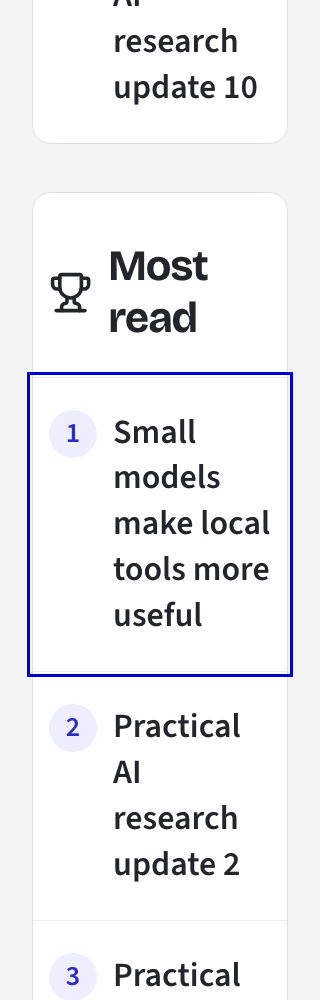
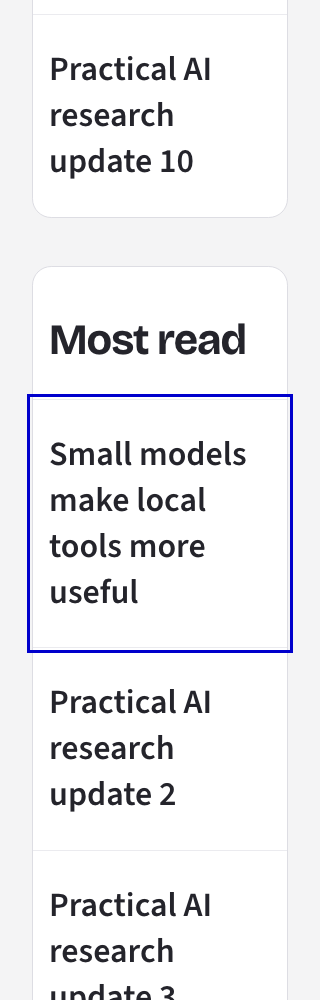
Simplify widget headings and remove number badges

Changed region(s): [[0.0625, 0.248, 0.9375, 1.0], [0.1562, 0.0, 0.8125, 0.186]]

diff --git a/hacksnap/web/app/popular-stories.tsx b/hacksnap/web/app/popular-stories.tsx
@@ -1,4 +1,3 @@
-import { Flame, Trophy } from "lucide-react";
 import type { PopularPeriod } from "../lib/popular-stories";
 import { getPopularStories } from "../lib/data";
 import { BrowseStoryLink } from "./story-navigation";
@@ -11,14 +10,10 @@ function PopularStoriesShell({
   period: PopularPeriod;
 }) {
   const heading = period === "last-7-days" ? "trending-stories-heading" : "popular-stories-heading";
-  const Icon = period === "last-7-days" ? Flame : Trophy;
   return (
     <aside className="popular-stories" aria-labelledby={heading}>
       <div className="popular-stories-heading">
-        <h2 id={heading}>
-          <Icon aria-hidden="true" />
-          {period === "last-7-days" ? "Trending" : "Most read"}
-        </h2>
+        <h2 id={heading}>{period === "last-7-days" ? "Trending" : "Most read"}</h2>
       </div>
       {children}
     </aside>
@@ -50,13 +45,10 @@ export async function PopularStories({ period = "all-time" }: { period?: Popular
       <PopularStoriesShell period={period}>
         {stories.length ? (
           <ol role="list">
-            {stories.slice(0, 5).map((story, index) => (
+            {stories.slice(0, 5).map((story) => (
               <li key={story.hn_id}>
                 <BrowseStoryLink id={story.hn_id} slug={story.story_slug} focusFeedStory={false}>
-                  <span className="popular-stories-rank" aria-hidden="true">
-                    {index + 1}
-                  </span>
-                  <span>{story.title}</span>
+                  {story.title}
                 </BrowseStoryLink>
               </li>
             ))}

diff --git a/hacksnap/web/app/globals.css b/hacksnap/web/app/globals.css
@@ -590,16 +590,8 @@ body:has(#browse-content) .skip-browse {
   border-bottom: 1px solid #ebebef;
 }
 .popular-stories-heading h2 {
-  display: flex;
-  align-items: center;
-  gap: var(--space-2);
   font: 700 1.35rem/1.2 var(--heading);
   letter-spacing: -0.025em;
-}
-.popular-stories-heading svg {
-  width: 1em;
-  height: 1em;
-  flex: none;
 }
 .popular-stories ol {
   list-style: none;
@@ -610,29 +602,11 @@ body:has(#browse-content) .skip-browse {
   border-top: 1px solid #ebebef;
 }
 .popular-stories li a {
-  display: flex;
-  align-items: flex-start;
-  gap: var(--space-2);
+  display: block;
   padding: var(--space-4);
   min-height: var(--touch-target);
   font: 600 var(--text-base)/1.35 var(--sans);
   text-decoration: none;
-}
-.popular-stories-rank {
-  display: inline-flex;
-  align-items: center;
-  justify-content: center;
-  flex: none;
-  width: 1.5rem;
-  height: 1.5rem;
-  border-radius: 50%;
-  background: var(--accent-soft);
-  color: color-mix(in srgb, var(--accent) 55%, var(--muted));
-  font-size: var(--text-sm);
-  font-variant-numeric: tabular-nums;
-}
-.popular-stories li a > span:last-child {
-  min-width: 0;
   overflow-wrap: anywhere;
 }
 .popular-stories li a:hover {

diff --git a/anti-slop/audit-001-2026-10-09-follow-up.md b/anti-slop/audit-001-2026-10-09-follow-up.md
@@ -1,15 +1,15 @@
-# Widget gutter: finding 1 resolved
+# Widget gutters and plain headings: approved changes resolved
 
-The user approved finding 1 from the 9 October spacing audit. This follow-up covers only Trending and Most read spacing.
+The user approved the 9 October spacing finding and subsequently requested removal of both number badges and heading icons. This report covers that final scope for Trending and Most read.
 
 ## Change and purpose
 
 - Headers, story rows, status messages and loading placeholders use a 1rem horizontal inset instead of 1.5rem.
-- Rank-to-title gap is 0.5rem instead of 0.75rem. The 1.5rem rank badge and vertical spacing remain unchanged.
+- Heading icons and numbered badges are removed. Headers and story titles share the same left edge. Ordered-list semantics and ranking order remain intact.
 - At content widths of 17rem or less, the existing 0.5rem compact inset also applies to status messages and loading placeholders.
-- At a normal 16px root size in a 288px card, headline capacity increases from 202px to 222px. The headline starts 48px from the inner edge instead of 60px.
+- At a normal 16px root size in a 288px card, headline capacity increases from 202px to 254px. The headline starts 16px from the inner edge instead of 60px.
 
-Reason: recover reading width within narrow ranking cards while preserving rank recognition, balanced card edges and separation from the feed.
+Reason: recover reading width within narrow ranking cards and align headings with their content, while preserving balanced card edges and separation from the feed.
 
 Direction: retain the existing editorial cards, Bricolage headings, Source Sans UI, pale canvas and blue accents. ENERGY 2 / RHYTHM 1 / MOTION 1. No new assets or content.
 
@@ -21,9 +21,9 @@ Direction: retain the existing editorial cards, Bricolage headings, Source Sans 
 - Existing popularity browser suite: 15 tests passed. Widths 320, 393, 768, 820 and 1440, each at 100% and 200% text; no horizontal overflow, targets at least 44px high, focus checks and zero axe WCAG A/AA violations.
 - Loading, empty, weekly failure and full failure scenarios passed. Feed stays available; slow loading remains below the layout-shift threshold.
 - JavaScript-disabled Most read navigation and keyboard activation passed. Browser suite reports no browser console/hydration errors. The fixture server logged two expected image-optimizer failures for its deliberately non-live image URL in the JavaScript-disabled scenario; these did not fail the suite.
-- Live local DOM inspection confirmed 16px row padding and 8px gap in both widgets. The long Most read fixture title occupies the full 222px available width.
+- Final screenshots confirm plain headings, badge-free story rows and aligned left edges. Source inspection confirms 16px horizontal padding and 254px available headline width in a 288px card.
 
-Manual widget navigation record, using the local fixture application:
+Manual widget navigation record from the initial spacing verification, using the local fixture application. Numbered positions below identify list entries; badges have since been removed. The final browser suite reran keyboard and JavaScript-disabled navigation after the removals.
 
 | Widget control | Action | Verified destination |
 | --- | --- | --- |
@@ -43,11 +43,11 @@ The final link was activated by keyboard after the browser automation could not 
 ## Delivery gate for the approved change
 
 - Hard gates PASS: no new prose, assets, claims or controls; existing links activate; browser matrix covers overflow, target size, focus, contrast and data states. Fixed light appearance is the only shipped theme. CSS was edited directly and the app was built and run.
-- Purpose gates PASS: only spacing changes; the reading-width rationale is recorded above. Colors, icons, typography, cards and motion retain the established design.
+- Purpose gates PASS: tighter insets and removal of optional icons/badges serve the recorded reading-width and alignment rationale. Colors, typography, cards and motion retain the established design.
 - Liveliness PASS: declared ENERGY 2 / RHYTHM 1 / MOTION 1 retained; the feed remains primary, ranked widgets remain secondary, blue accents and heading treatment remain consistent. Whitespace separates content while leaving more room for headlines.
 - Craftsmanship and quality PASS: same shared component and tokens serve both widgets; loading and status insets follow the rows; responsive and enlarged-text checks pass. No new sections, fabricated content or interaction behavior.
 
-This gate is scoped to the approved spacing adjustment, not a claim of a new whole-site audit.
+This gate is scoped to the approved widget simplification, not a claim of a new whole-site audit.
 
 ## Screenshots
 

diff --git a/hacksnap/web/README.md b/hacksnap/web/README.md
@@ -185,11 +185,11 @@ remains usable. Both cards render their respective results, with
 ordinary canonical article links that work without JavaScript. Full document
 requests await the optional popularity read after required feed data; client
 navigation streams its loading, empty, and unavailable states independently.
-“Trending” uses a flame icon and “Most read” uses a trophy icon. Both lists show
-numbered rank pills in muted accent blue. “Most read” ranks lifetime reads.
-Widget headings, rows and fallback states share a 1rem horizontal inset, with
-0.5rem between each rank and headline to leave more room for reading. Below the
-17rem content-width threshold, all states use a 0.5rem inset.
+“Trending” and “Most read” use plain text headings and full-width story links
+without icons or number badges, retaining their ranking order.
+“Most read” ranks lifetime reads. Widget headings, rows and fallback states share
+a 1rem horizontal inset. Below the 17rem content-width threshold, all states use
+a 0.5rem inset.
 The weekly reader counts reads over a rolling seven-day period rather
 than calculating a rate of growth.
 
